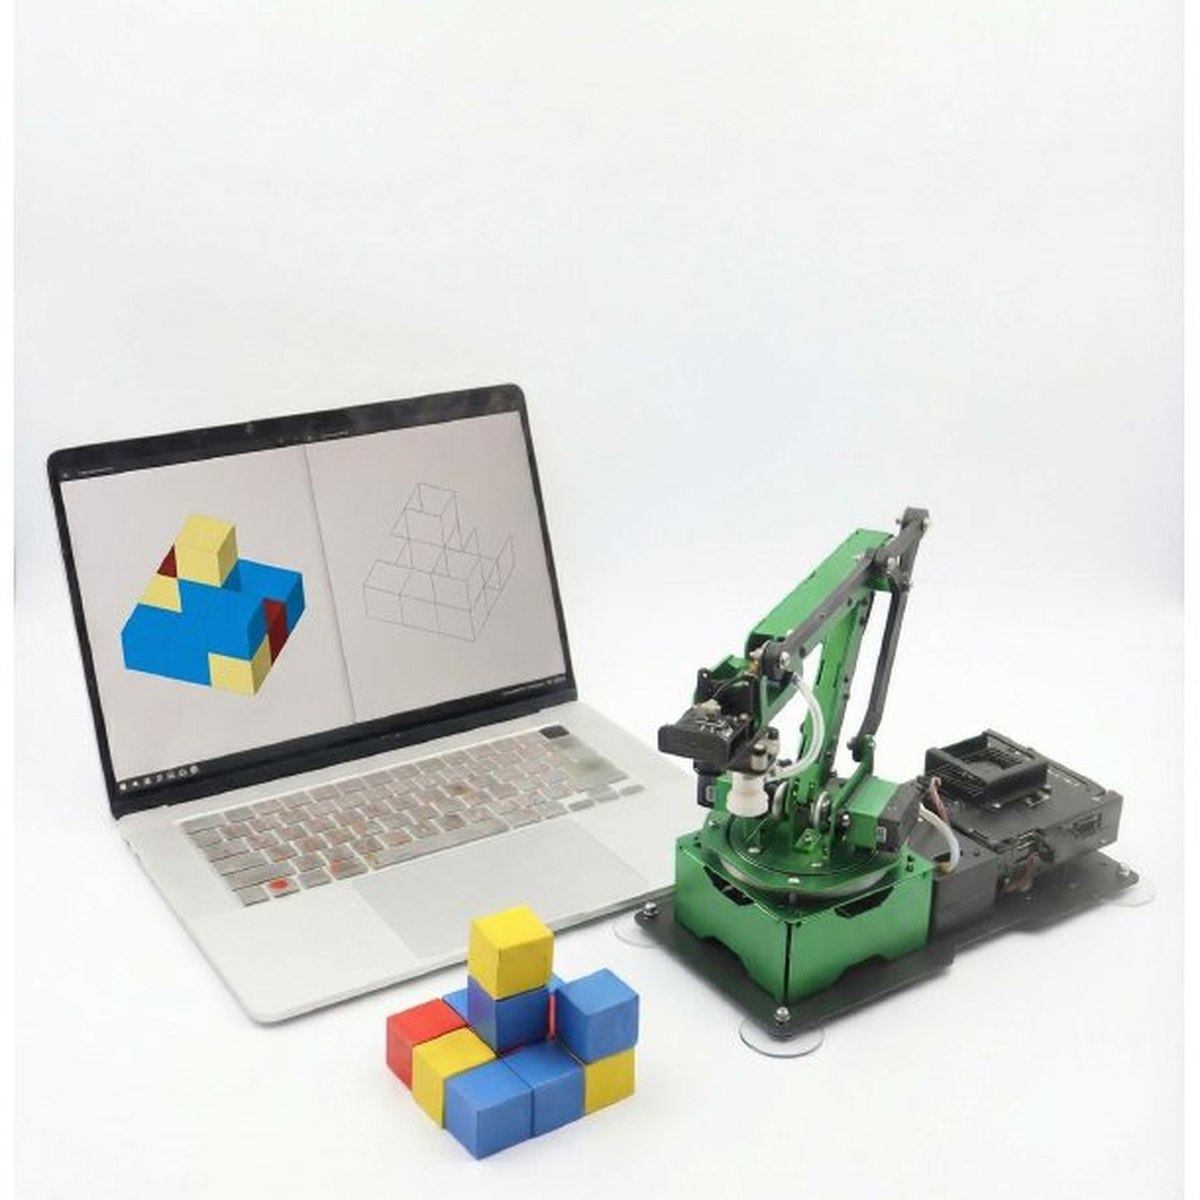
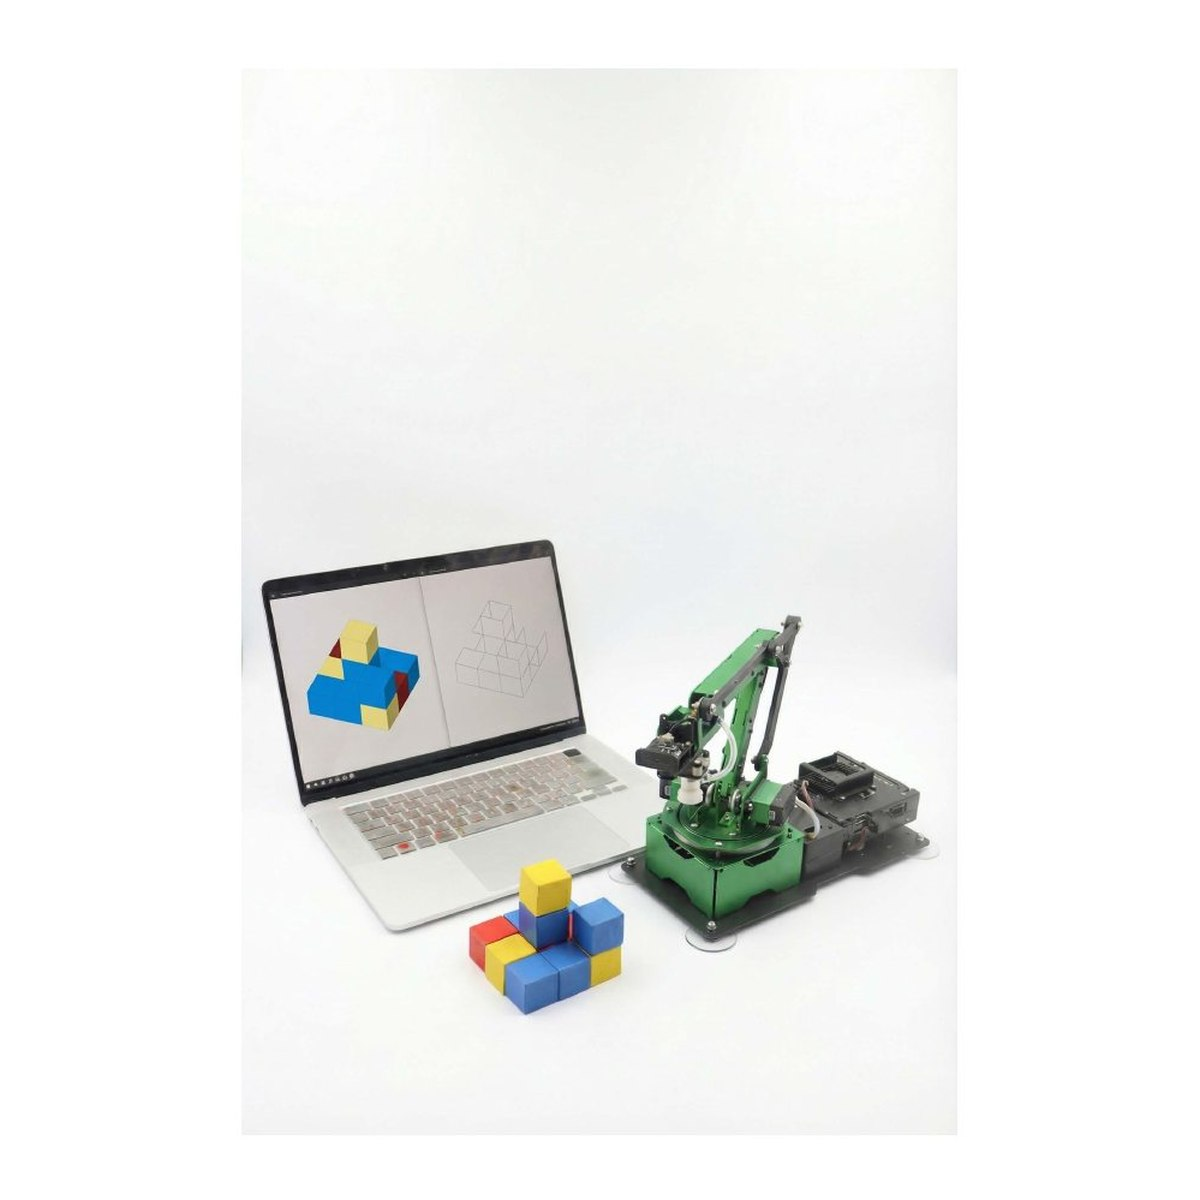
Revert "Covers fill the square — no margin"
This reverts commit 79f175a9cb292777d53b287585fbbfbca90cce13.

Changed region(s): [[0.0, 0.3083, 0.9558, 0.9867], [0.9558, 0.4008, 0.9867, 0.4933]]

diff --git a/README.md b/README.md
@@ -26,12 +26,9 @@ assets/
   pages/pNN.jpg       Portfolio page NN rendered at 1998 px wide  (full-res view)
   thumbs/pNN.jpg      Same page at 760 px                        (small screens)
                       Only the pages still referenced are kept in the repo.
-  cards/*.jpg         1200x1200 square cover for each project — a square crop of
-                      that project's own opening page, filling the tile edge to
-                      edge. Cut by make_covers.py.
+  cards/*.jpg         1200x1200 square tile for each project — the artwork from
+                      that project's own opening page, fitted on white. Index grid.
 build.py              Regenerates all seven HTML files from the ENTRIES list inside it
-make_covers.py        Re-cuts assets/cards/*.jpg from the page renders; crop boxes
-                      live in the COVERS dict at the top
 ```
 
 ## View locally
@@ -51,11 +48,8 @@ Structural changes (adding a project, reordering, changing captions): edit the
 
 A project is one dict in `RESEARCH` (numbered 01–04) or `WORKS` (05–06); its
 `plates` list is `(PDF page, short label, caption)`. To add a new project you also
-need its page images in `assets/pages/` + `assets/thumbs/`, and an entry in the
-`COVERS` dict of `make_covers.py` to cut its square cover.
-
-To reframe an existing cover, edit its crop box in `make_covers.py` and re-run it —
-`build.py` does not need to run again unless the project list changed.
+need its page images in `assets/pages/` + `assets/thumbs/`, and a cover crop in
+`assets/cards/`.
 
 ## Deploy to GitHub Pages
 
